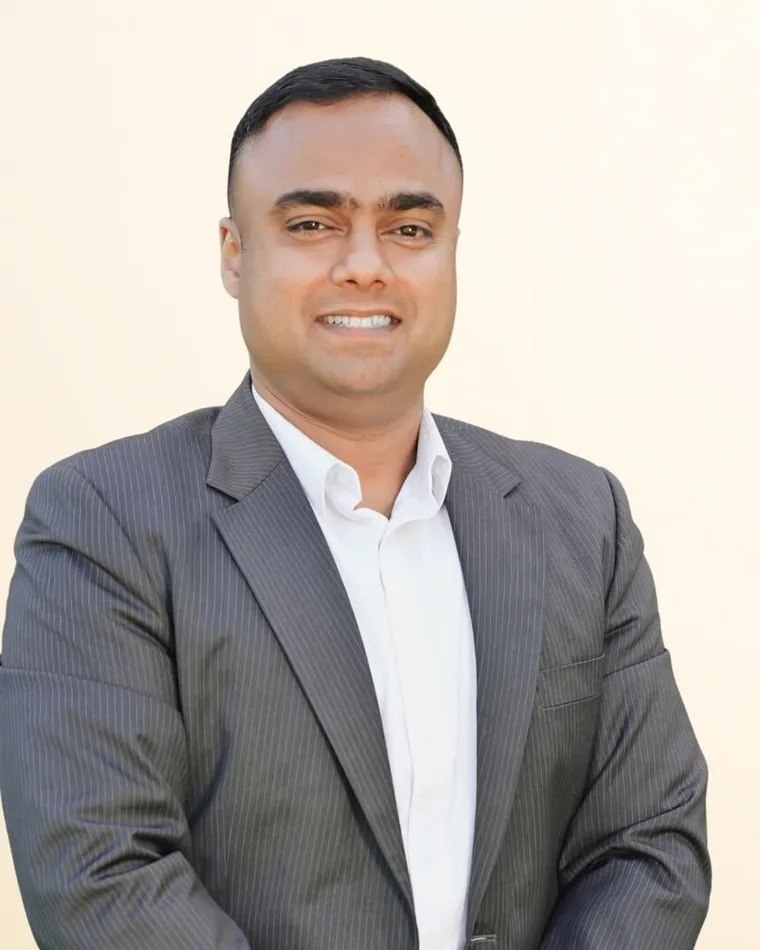
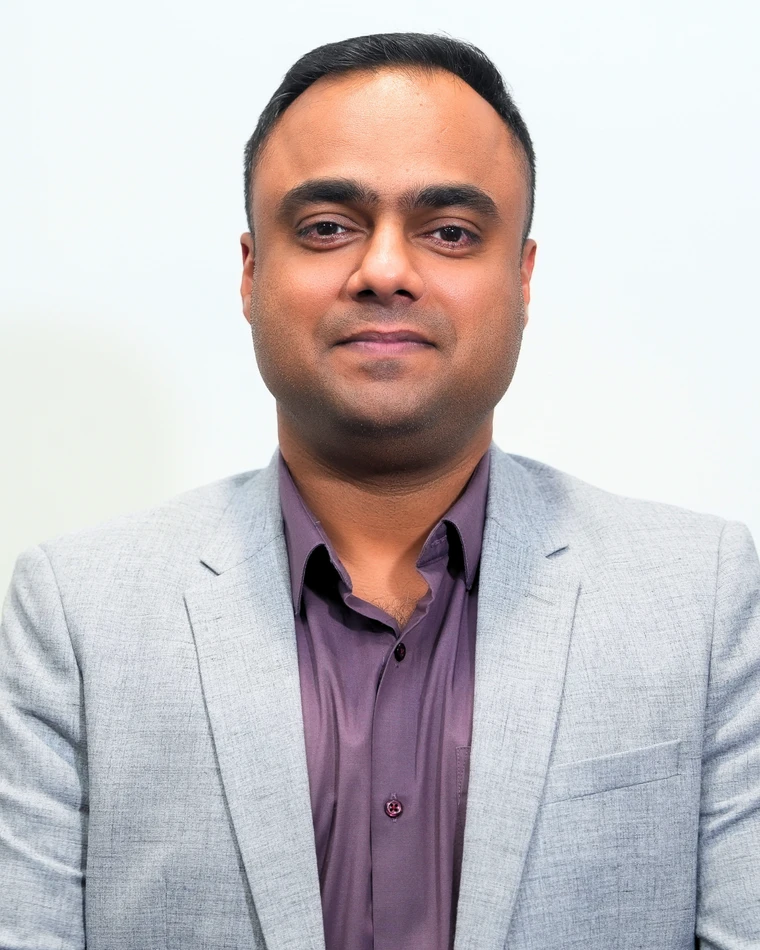
feat: add Jeeson Joseph profile assets and update portrait source versioning

diff --git a/Team.dc.html b/Team.dc.html
@@ -208,7 +208,7 @@
 <section style="padding:84px 24px;border-bottom:1px solid #E4E9F0">
   <div class="team-row">
     <div class="team-photo">
-      <img src="/assets/team/jeeson-joseph-portrait.webp" alt="Jeeson Joseph, Mortgage Adviser at Wealthify" width="760" height="950" loading="lazy" decoding="async">
+      <img src="/assets/team/jeeson-joseph-portrait.webp?v=2" alt="Jeeson Joseph, Mortgage Adviser at Wealthify" width="760" height="950" loading="lazy" decoding="async">
     </div>
     <div>
       <div style="font-size:var(--text-micro);font-weight:700;text-transform:uppercase;letter-spacing:.14em;color:#16C172;margin-bottom:12px">Director · Mortgage Adviser · New Zealand Wide</div>
